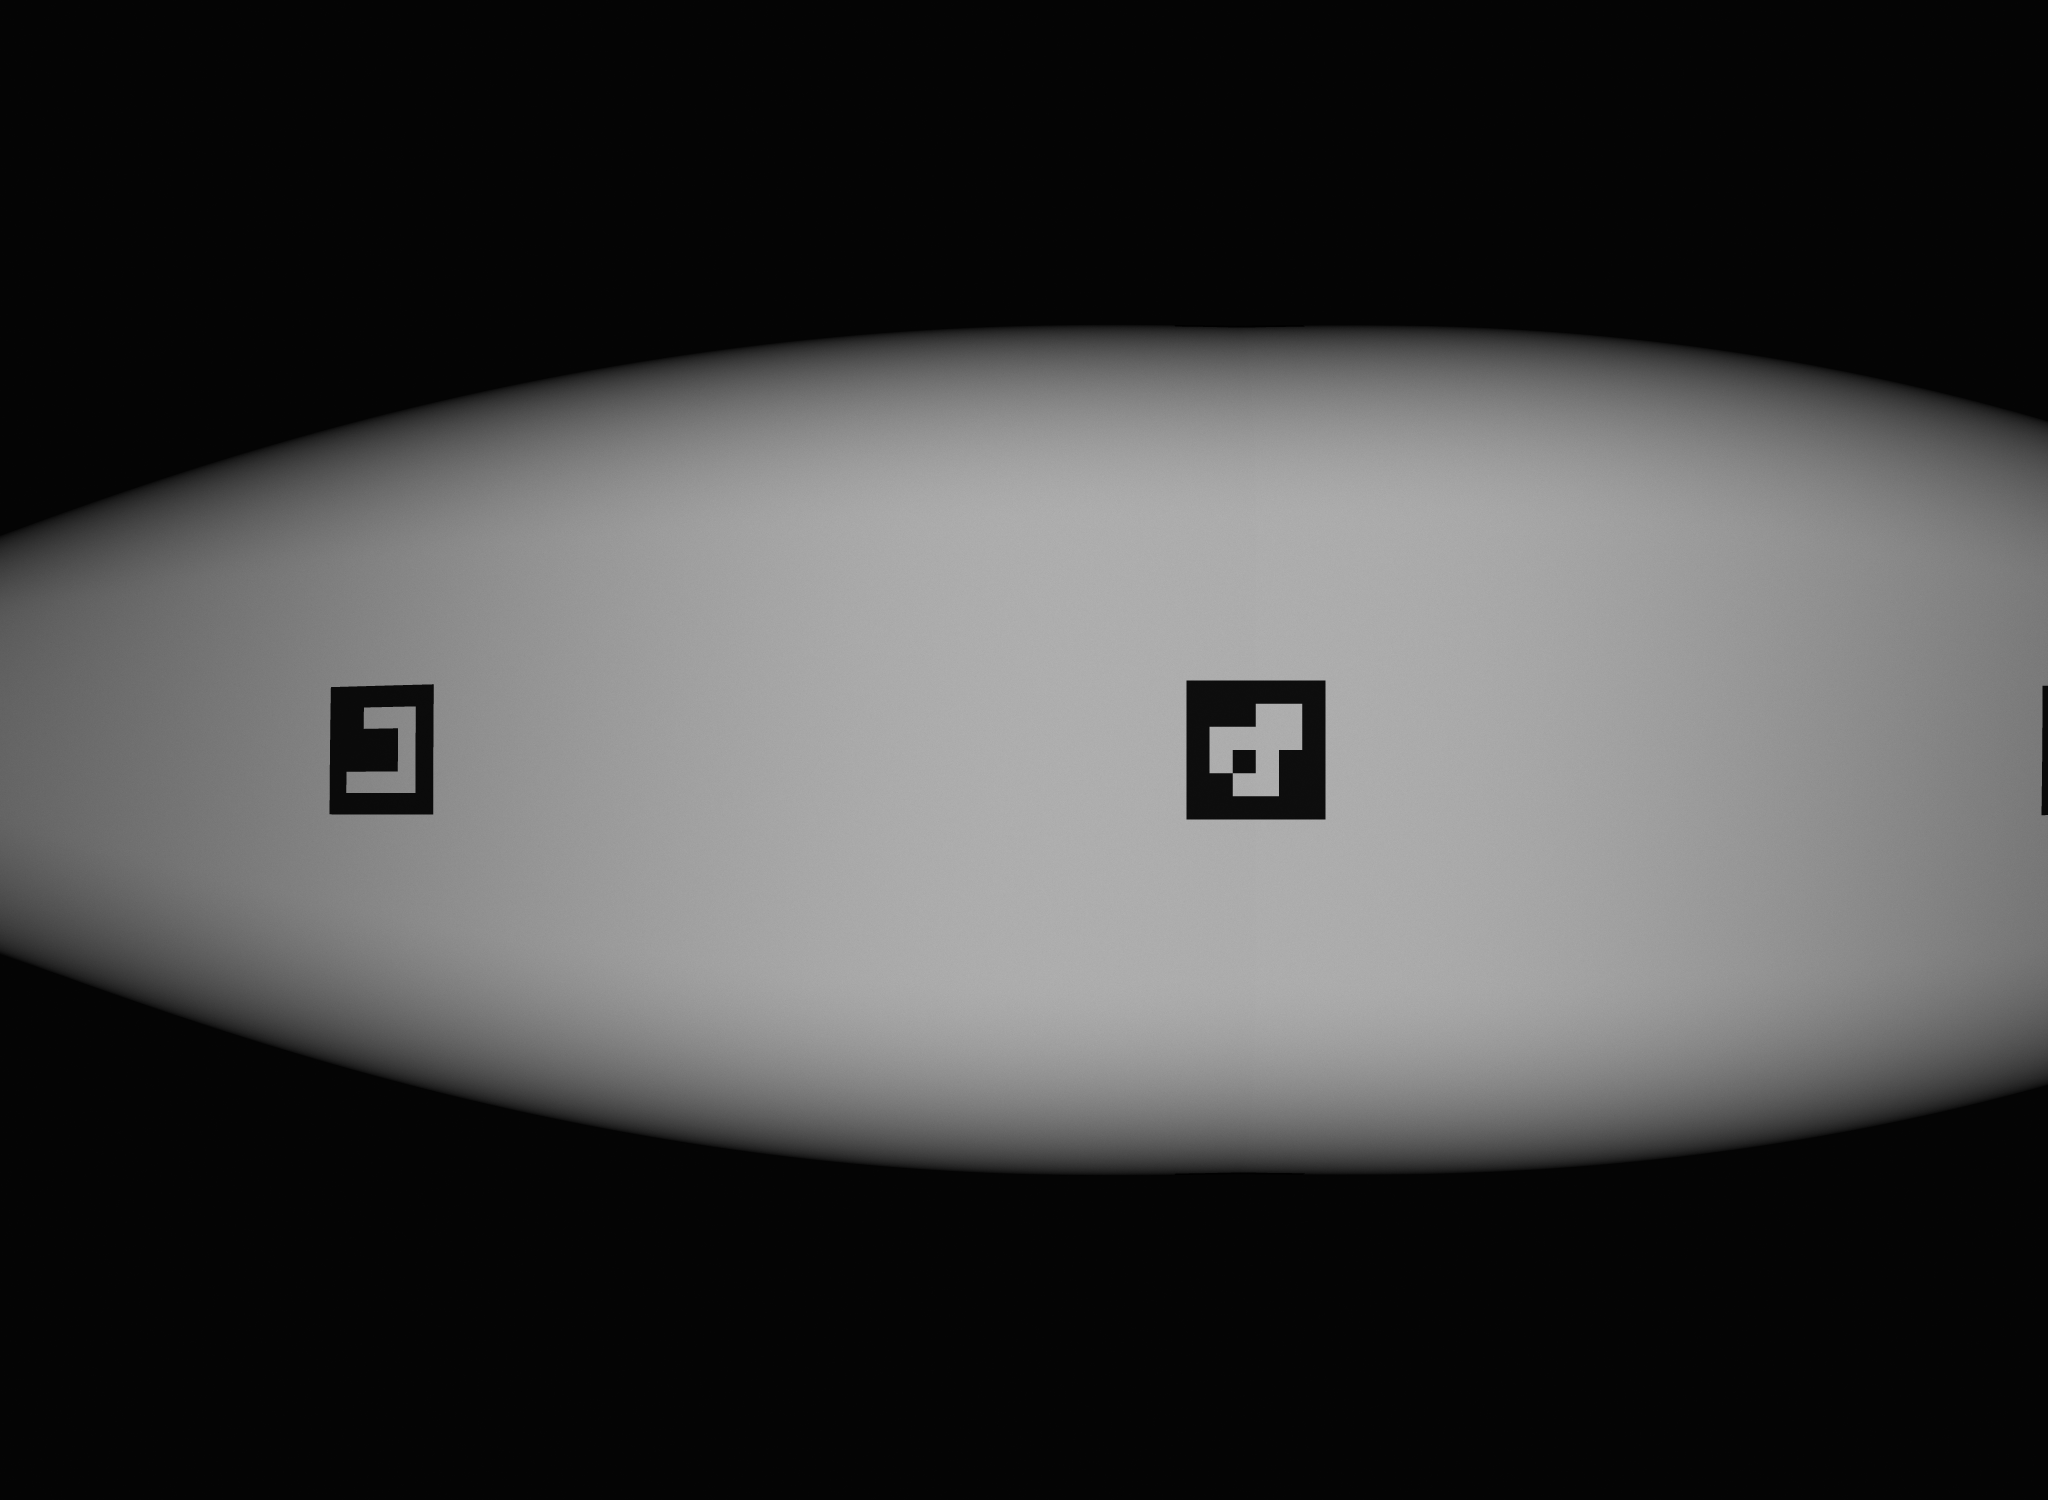
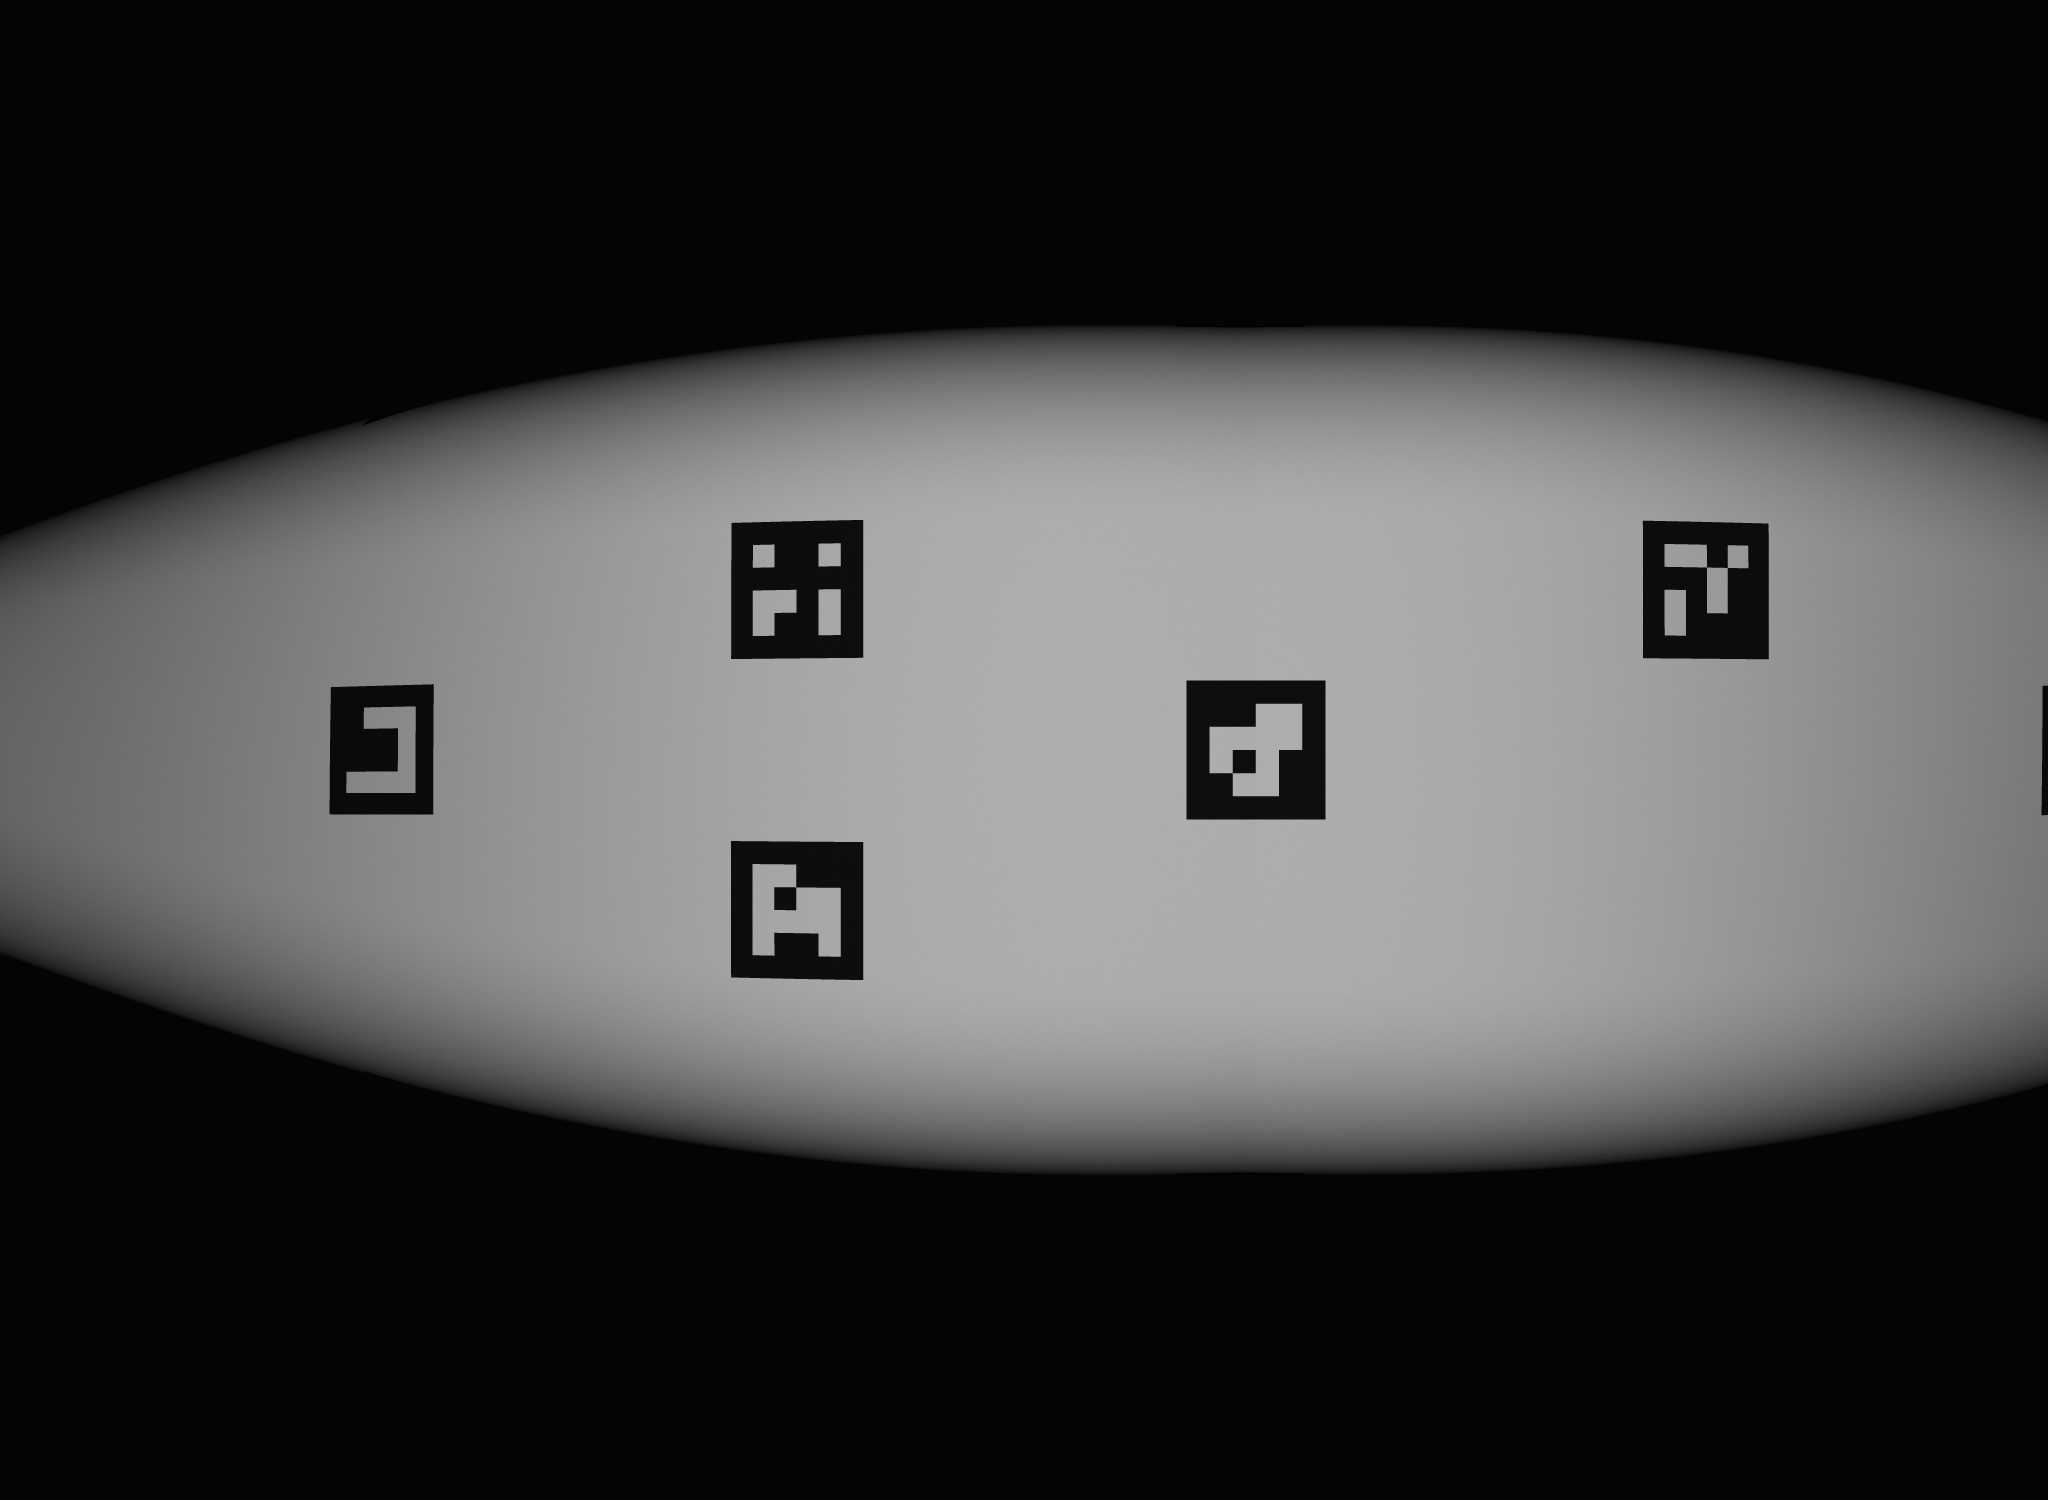
Marker table: fix z of 5, 6, 16, 17; move 19-21 to the front
All markers now lie on the mesh. The calibration images are regenerated;
markers 9, 10, 19, 20 and 21 are in view.

Changed region(s): [[0.7812, 0.3373, 0.875, 0.46], [0.3438, 0.552, 0.4375, 0.6747], [0.3438, 0.3373, 0.4375, 0.46]]

diff --git a/tests/test_calibration.py b/tests/test_calibration.py
@@ -79,7 +79,7 @@ def test_pose_recovered_from_the_marker_images(banana, truth):
     corners = calibration.marker_corners(cal, centres, 30.0)
     pose = calibration.position(_images("markers"), ids, corners, cal.K, cal.distortion)
     assert pose.used == 5
-    assert set(pose.marker_errors_px) == {9, 10}  # 8 lies just outside the view
+    assert set(pose.marker_errors_px) == {9, 10, 19, 20, 21}  # 8 just outside
     centre = -np.array(truth["R"]).T @ np.array(truth["t"])
     np.testing.assert_allclose(pose.centre, centre, atol=1.0)
     assert _angle_deg(pose.R, np.array(truth["R"])) < 0.1
@@ -105,9 +105,11 @@ def test_body_angle_facing_the_camera(banana):
 
 def test_markers_far_from_the_mesh_are_reported(banana):
     cal, ids, centres = banana
+    centres = centres.copy()
+    centres[ids == 5, 2] = 112.5  # a sign typo: beyond the banana
     _, _, distance = calibration.surface_points(cal, centres)
     off = ids[distance > calibration.MAX_OFF_MESH_MM]
-    assert sorted(off) == [5, 6, 16, 17]  # z = 112.5 lies beyond the banana
+    assert sorted(off) == [5]
 
 
 def test_bundle_keeps_the_marker_table(banana, tmp_path, truth):

diff --git a/tests/test_calibration_session.py b/tests/test_calibration_session.py
@@ -52,7 +52,7 @@ def test_session_writes_a_bundle_that_processes(truth, tmp_path):
     session.marker_images = [
         dataset.read_image(f) for f in sorted(IMAGES.glob("markers_*.png"))
     ]
-    assert session.markers_off_mesh() == [5, 6, 16, 17]
+    assert session.markers_off_mesh() == []
     session.solve_position()
     assert session.body_angle_guide() == pytest.approx(90.0, abs=1.0)
     session.touch_down_deg = banana.touch_down_deg
@@ -85,7 +85,7 @@ def test_calibration_tab_runs_the_steps(cylinder_geometry, truth, tmp_path):
         tab.camera_position[1].setValue(250)
         tab.solve_position()
         text = tab.status.text()
-        assert "Not on the mesh (ignored): markers [5, 6, 16, 17]" in text
+        assert "Not on the mesh" not in text
         assert "WARNING" not in text and "Body angle facing the camera" in text
         for x, y in [(300, 500), (1700, 500), (1700, 1000)]:
             tab.session.crop_polygon = (
